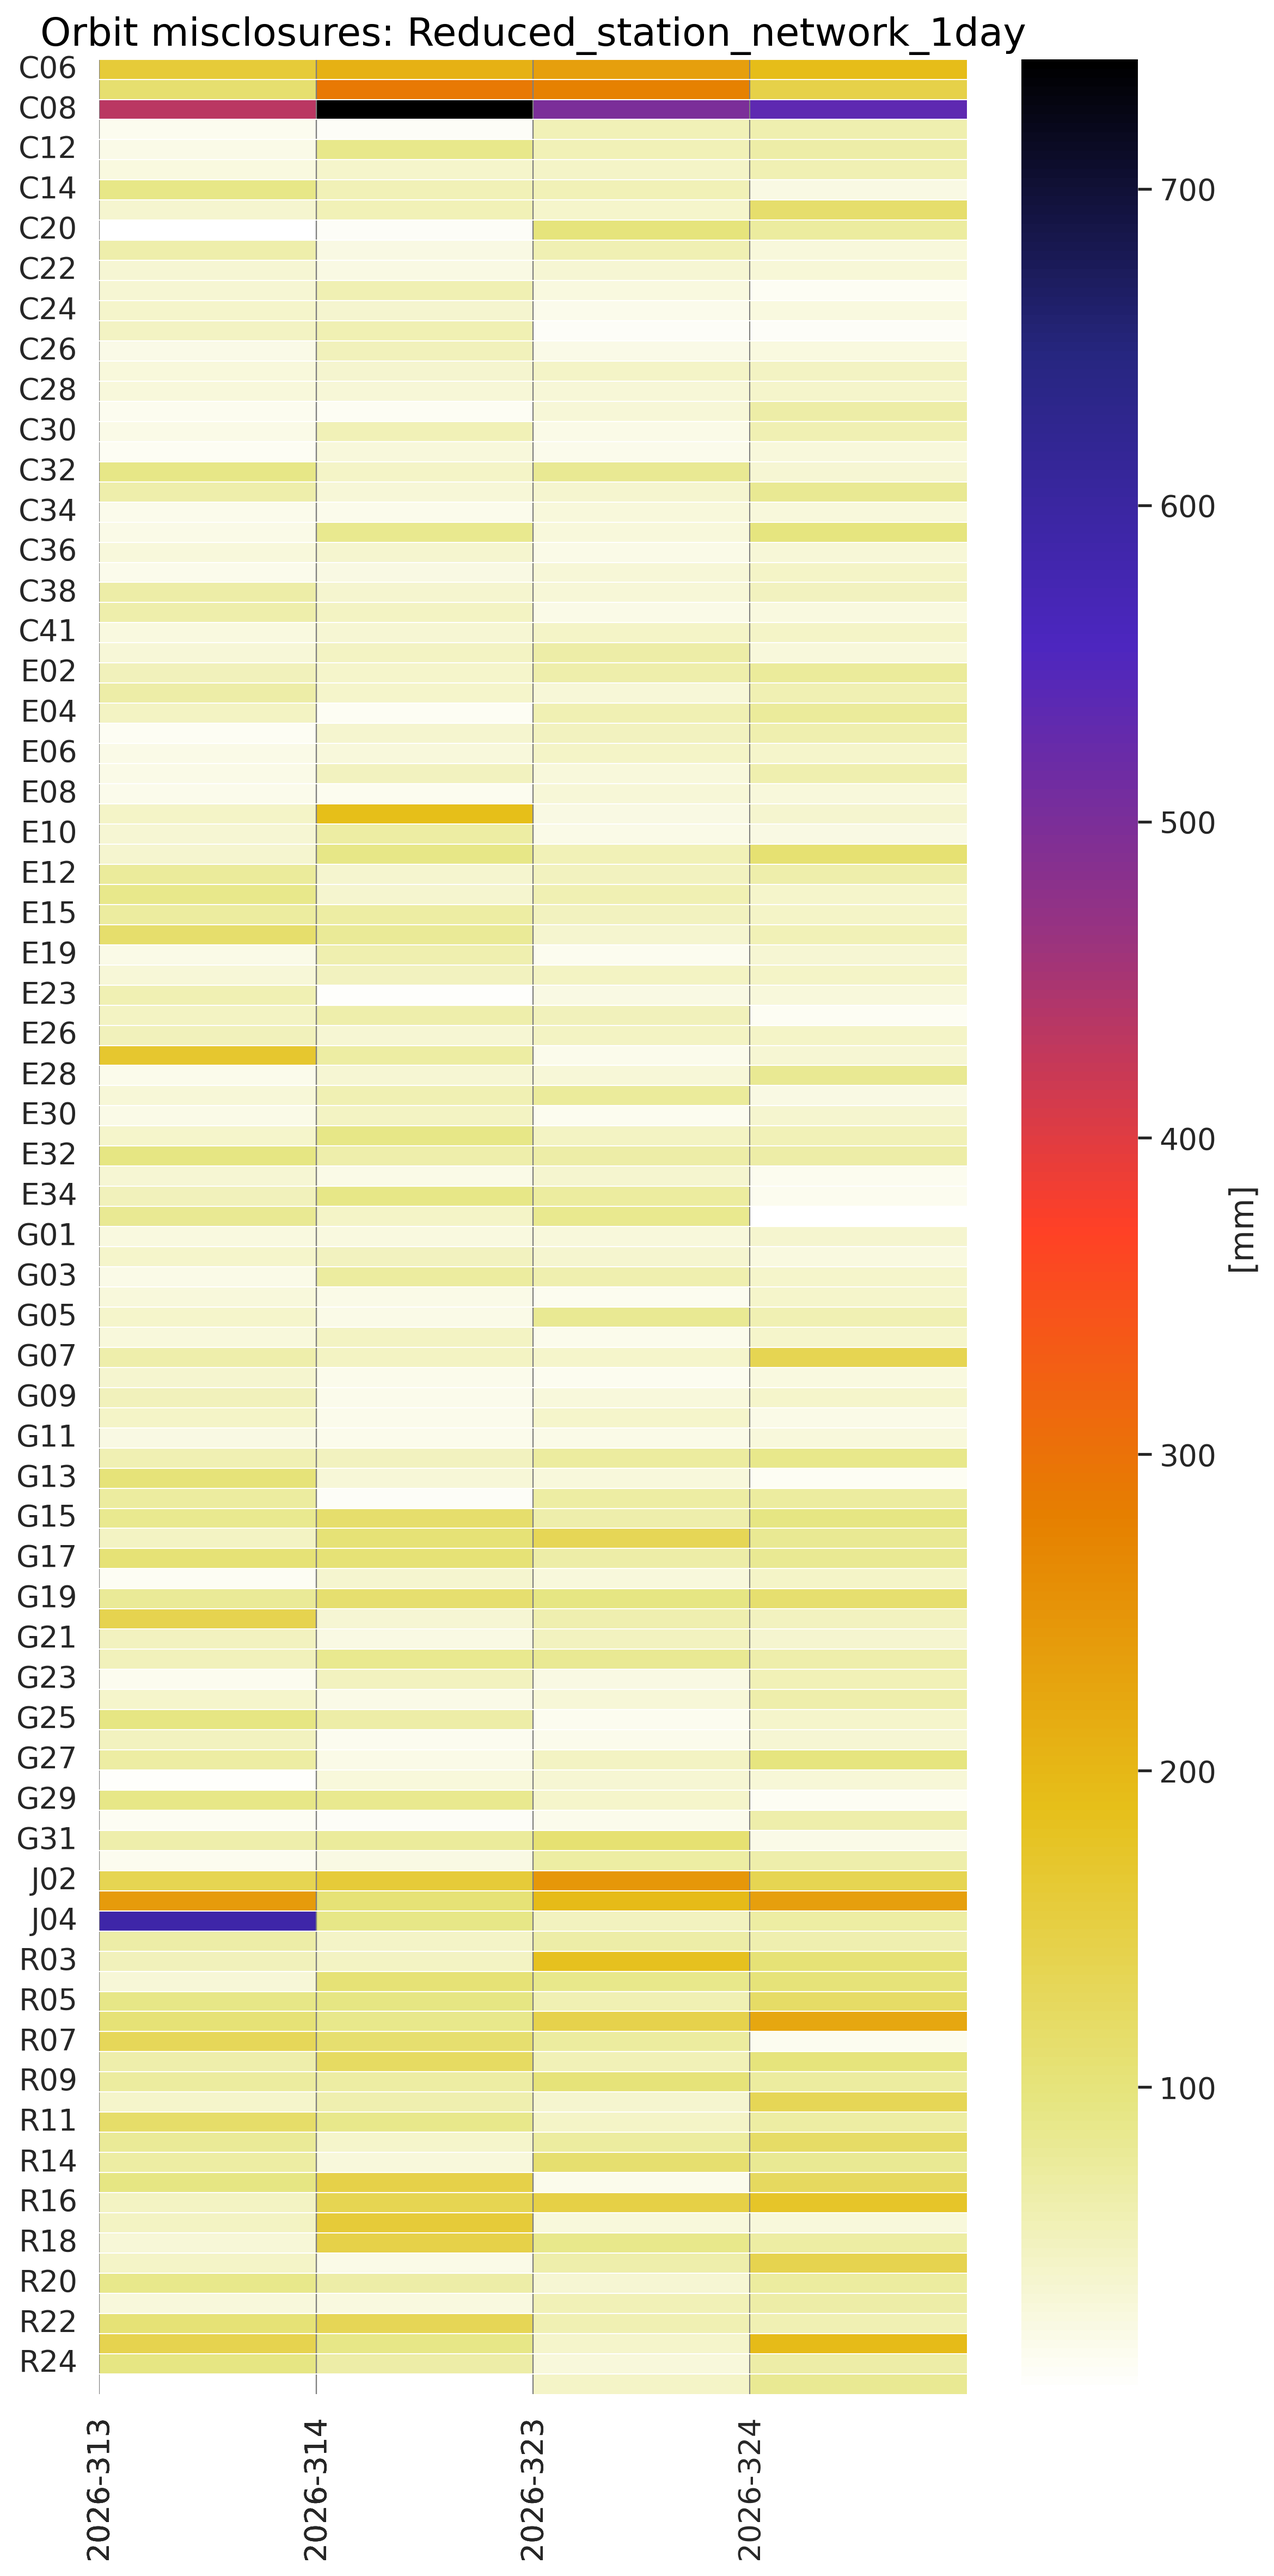
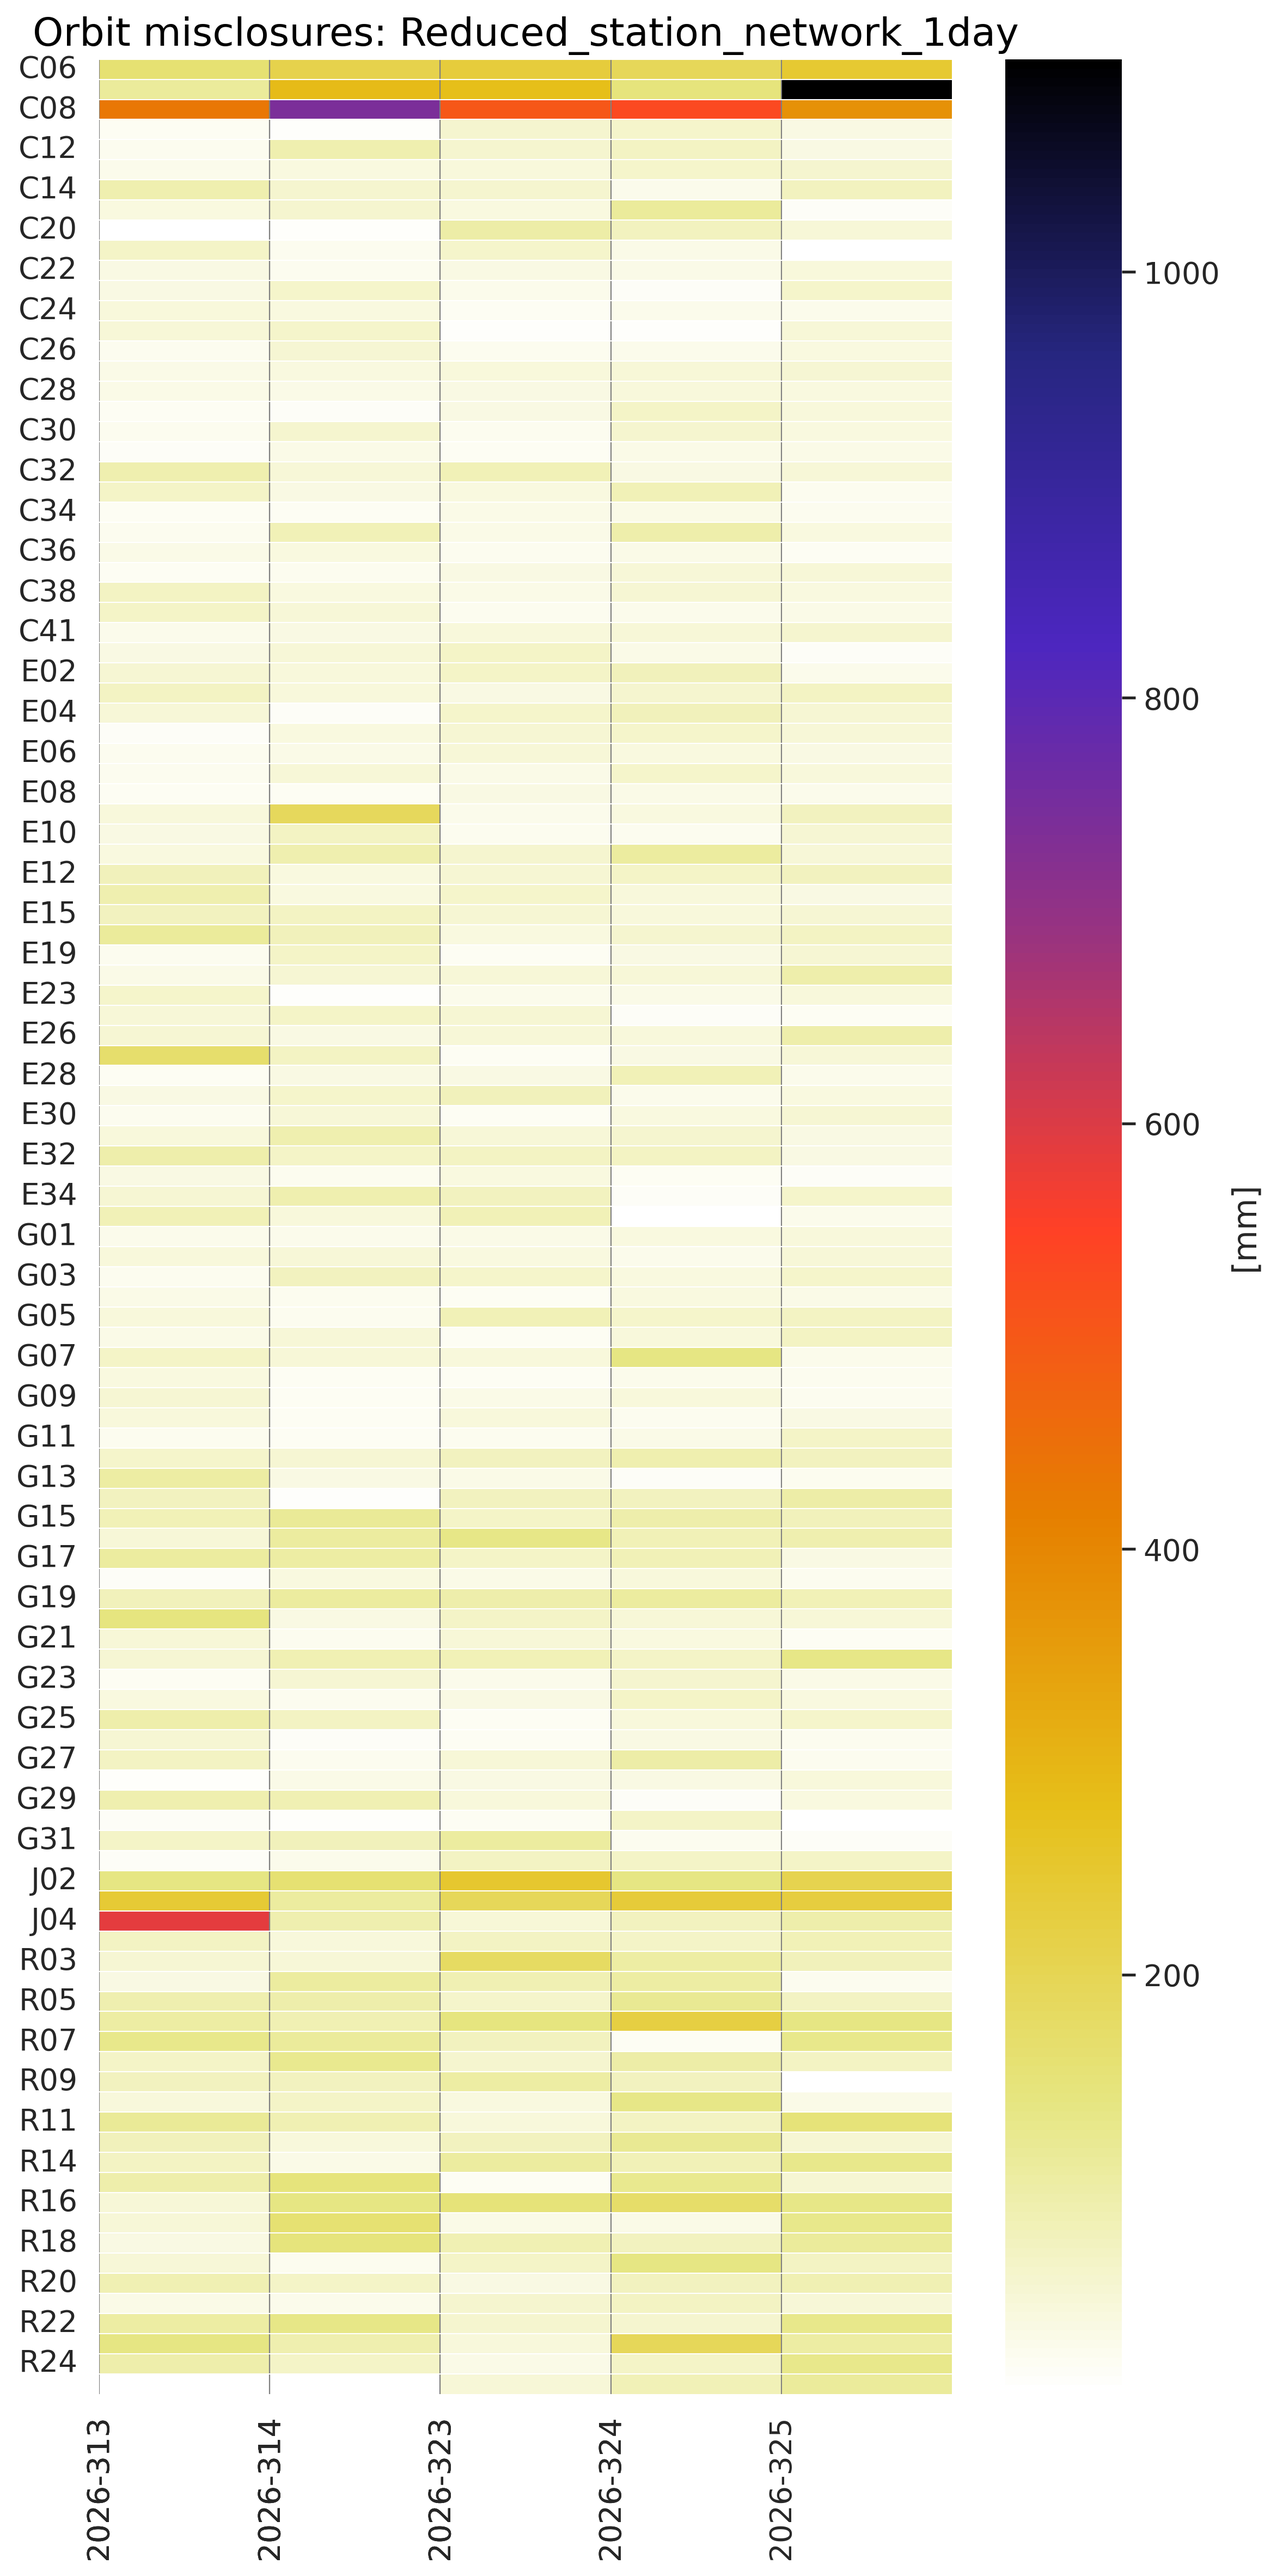
Auto update monitoring 2026-11-23 14:01

diff --git a/validation_list.js b/validation_list.js
@@ -8,6 +8,7 @@ window.validation_plots = [
     "Helmert_residuals_map_Reduced_station_network_1day_263230.png",
     "Helmert_residuals_map_Reduced_station_network_1day_263240.png",
     "Helmert_residuals_map_Reduced_station_network_1day_263250.png",
+    "Helmert_residuals_map_Reduced_station_network_1day_263260.png",
     "Linfit_clocks_Reduced_station_network_1day.png",
     "orb_ver_Reduced_station_network_1day.png",
     "plotGPSXTR_OBS_Reduced_station_network_1day.png",
